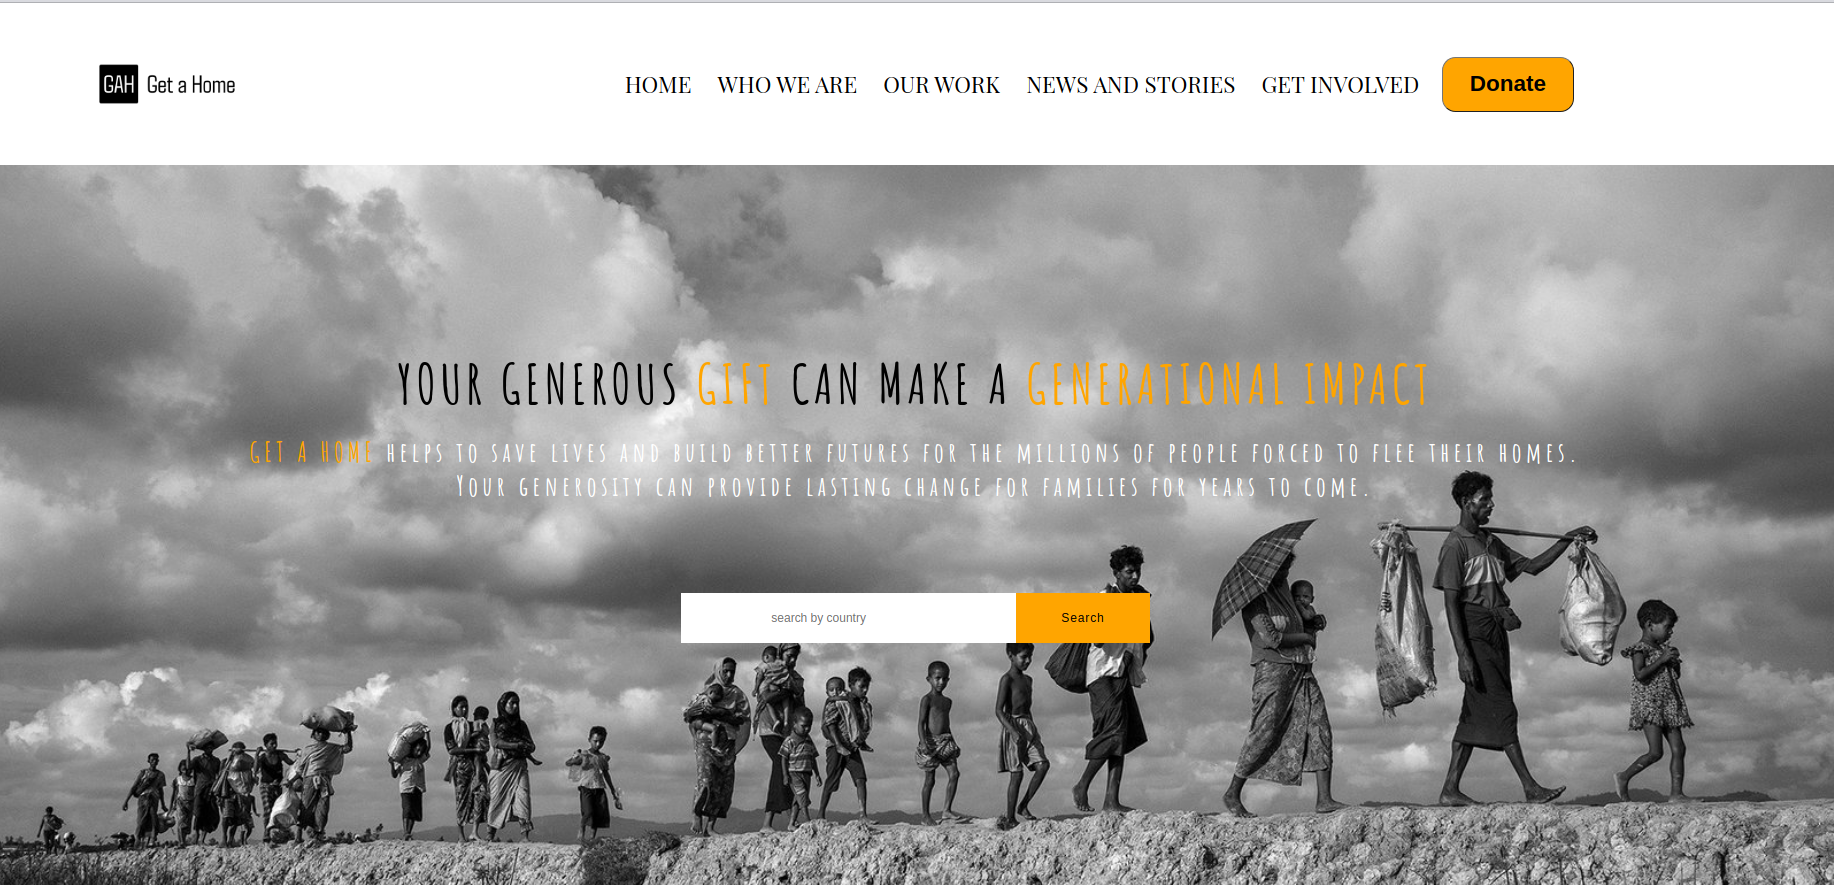
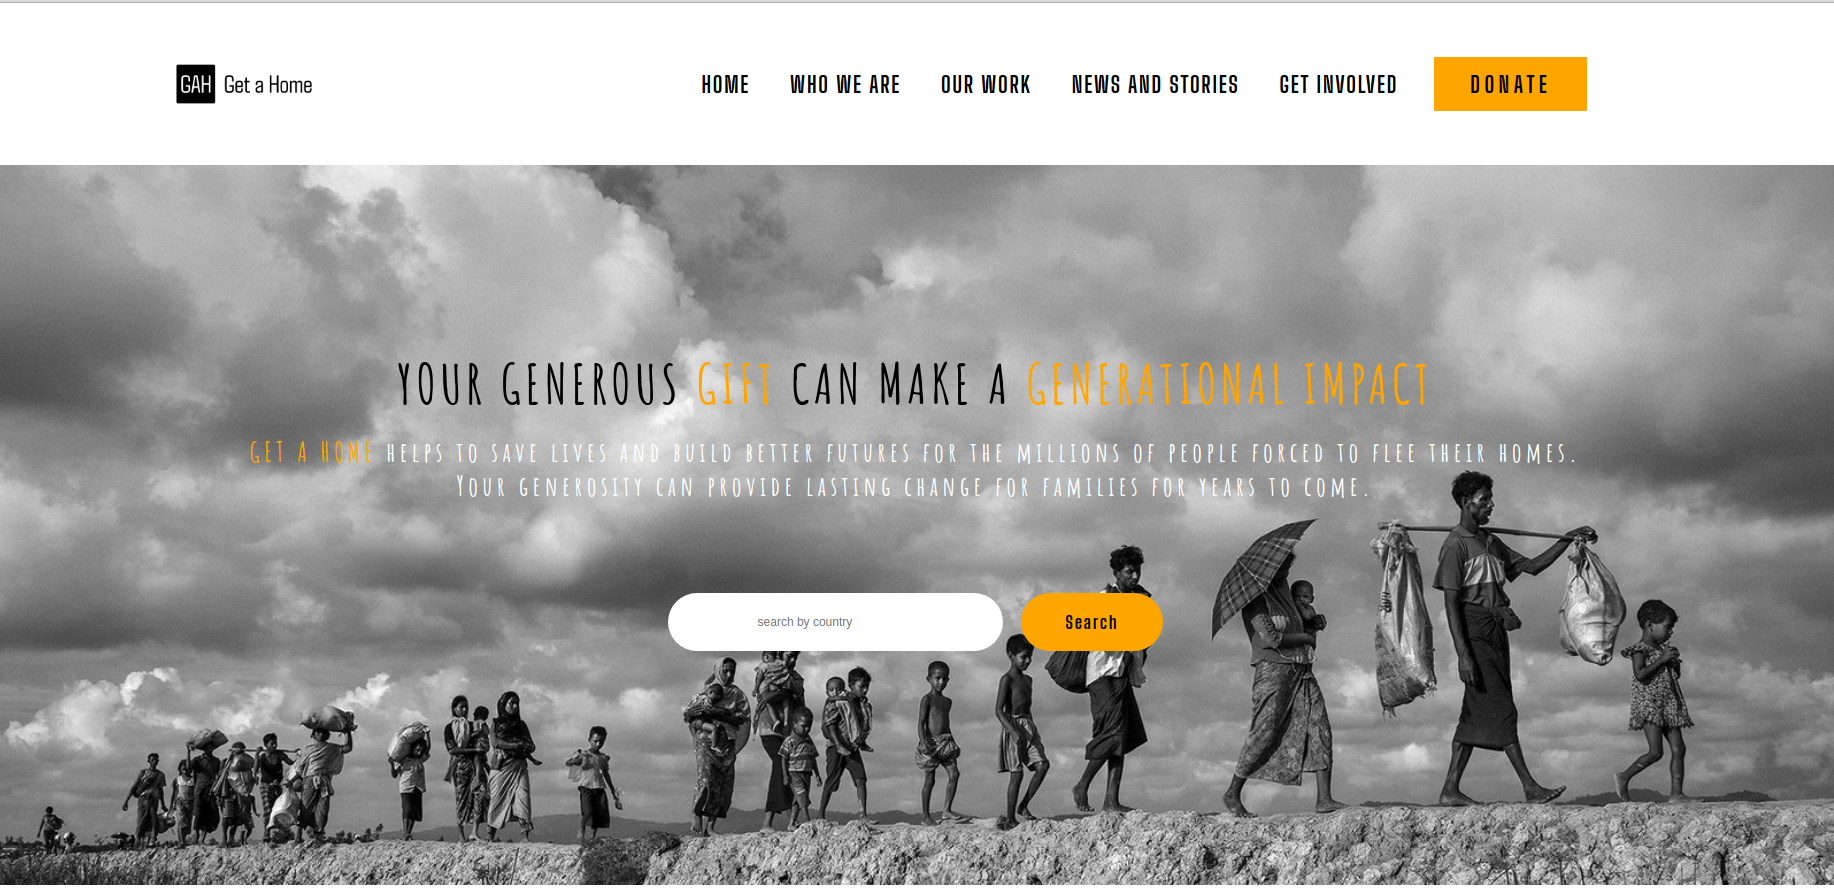
readme screenshots updated

Changed region(s): [[0.3419, 0.0607, 0.8702, 0.1215], [0.3419, 0.6682, 0.6527, 0.7593], [0.0311, 0.0607, 0.1865, 0.1215]]

diff --git a/css/main.css b/css/main.css
@@ -26,12 +26,13 @@ nav {
     margin-left: 20%;
 }
 nav ul li {
-    display: inline-flex;  
+    display: inline-flex; 
 }
 a {
     color: black;
     font-size: 25px;
     padding-right: 40px;
+    letter-spacing: 2px; 
 }
 a:hover{
     color: orangered;
@@ -126,7 +127,6 @@ header .donate-btn:hover{
 .section-main form {
     margin-top: 100px;
     display: flex;
-
 }
 .section-main form input {
     border: none;
@@ -135,13 +135,20 @@ header .donate-btn:hover{
     border-radius: 50px;
 }
 .section-main form button {
+    margin-left: 20px;
     background: orange;
     padding: 20px 50px;
     border: none;
     outline: none;
-    letter-spacing: 1px;
+    border-radius: 50px;
+    letter-spacing: 2px;
+    font-size: 20px;
     cursor: pointer;
+    font-weight: 600;
     font-family: 'Big Shoulders Display', cursive;
+}
+.section-main form button:hover {
+    background-color: orangered;
 }
 /* Newsletter Form*/
 #newsletter-form {

diff --git a/src/main.js b/src/main.js
@@ -115,15 +115,6 @@ function addDonor(donorObj){
     })
 }
 
-//Search function to loop through the array and fetch location data
-function searchButton() {
-
-    let location = []
-    fetch(`${apiURL}/camps`)
-    .then(res => res.json())
-    .then(data => location = data.map(obj => obj.location))
-}
-
 //Selecting newsletter form and assigning an event listener Click
 document.querySelector("#newsletter-form").addEventListener('submit', handleNewsletterSubmit)
 
